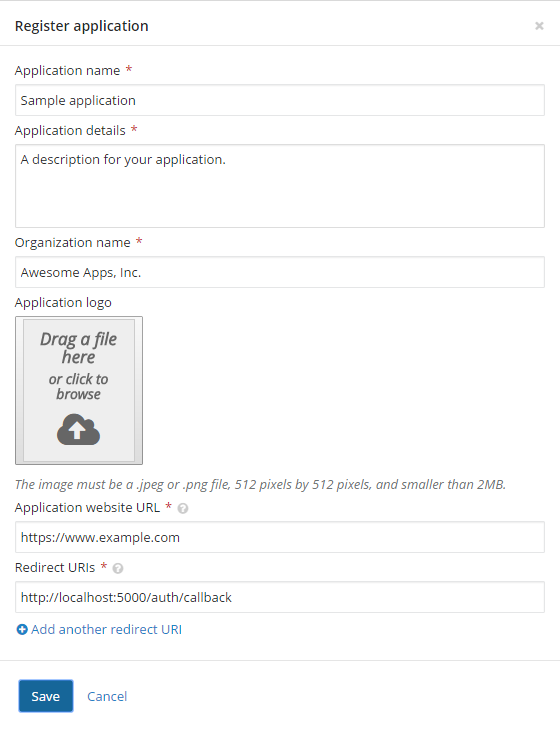
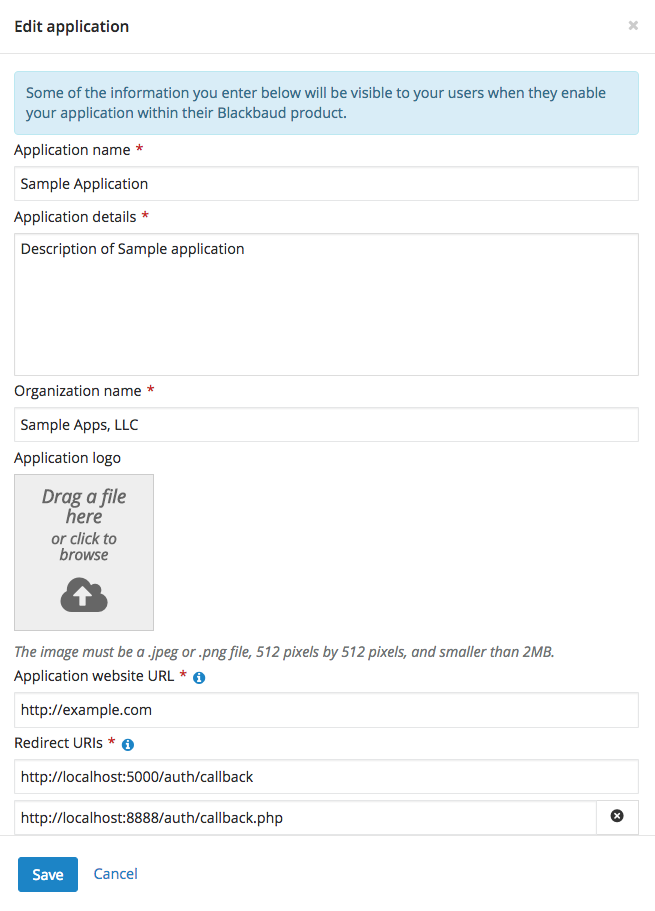
Started PHP codeflow tutorial, updated some screen shots of the application views to include the php callback endpoint

Changed region(s): [[0.0, 0.0, 1.0, 0.9932], [0.9107, 0.8728, 0.9714, 0.9029]]

diff --git a/content/docs/code/auth-code-flow/php/index.md b/content/docs/code/auth-code-flow/php/index.md
@@ -1,0 +1,351 @@
+---
+layout: layout-container
+name: PHP
+title: Authorization Code Flow - PHP
+icon: fa fa-fw fa-desktop
+description: Learn how to create a PHP server-side app that utilizes the OAuth 2.0 Authorization Code Flow and retrieves constituent data from our <%= stache.config.product_name_short %>.
+order: 1
+published: true
+showInNav: true
+showBreadcrumbs: true
+tutorial: true
+back_to_top: true
+redirectUrl: http://localhost:8888/auth/callback.php
+---
+
+{{ include stache.config.partial_header_edit }}
+
+# Authorization Code Flow - PHP
+
+<a class="btn btn-primary" href="{{ stache.config.github_repo_web_api_authorization_php }}" target="_blank"><i class="fa fa-github fa-lg"></i> GitHub</a>
+
+## Overview
+
+We use OAuth 2.0 to secure access to a user's {{ stache.config.product_name_short }} data. In this tutorial we obtain user authorization using the [Authorization Code Flow]({{ stache.config.guide_web_api_authorization_auth_code_flow }}). From the user's perspective, the user authenticates as a Blackbaud user with the normal credentials for Blackbaud NXT and then authorizes (or denies) your application. To accomplish this, your application obtains an authorization code from the {{ stache.config.authorization_service_name }}. The authorization code is then exchanged for an access token that signs requests to the {{ stache.config.product_name_short }} on behalf of the user. The exchange involves your registered application's **{{ stache.config.guide_apps_client_secret_name }}**. For security reasons, the exchange is done through direct server-to-server communication. For this reason, we use [PHP](https://secure.php.net/) on the server.
+
+In this tutorial, we will accomplish the following tasks:
+
+- Ensure that you signed up for a developer account and obtained your subscription to an API product.
+- Register an application with {{ stache.config.product_name_short }}.
+- Obtain authorization to access user data for a specific tenant.
+- Retrieve data from a {{ stache.config.api_type_name }} endpoint.
+
+For this tutorial, we strip down the user interface to highlight the Authorization Code Flow. Our [Barkbaud code sample]({{ stache.config.guide_code }}) provides a rich user interface using <a href="http://skyux.developer.blackbaud.com/" target="blank">SKY UX</a>.
+
+## Prerequisites
+0. A server such as your local machine that is capable of running PHP.  We recommend [MAMP](https://www.mamp.info/en/).
+0. Familiarity using a command line interface (CLI) such as Terminal or Windows Command Prompt.
+0. Sign up for a [GitHub](https://github.com) account, if you don't already have one. The source code for this tutorial is stored in GitHub repository.
+0. Install [Git](https://git-scm.com/) and have the ability to clone or fork a repo.
+0. A reliable Internet connection.
+
+## Step 1 &mdash; Get Your Keys
+
+If you have not already done so, complete the <a href="{{ stache.config.guide_getting_started }}">Getting Started guide</a>. The tutorial guides you through signing up for a Blackbaud developer account and requesting a subscription to an API product. After you are approved, your subscription contains a **Primary key** and **Secondary key**. You can use either key as the subscription key value for the `bb-api-subscription-key` request header in calls to the API.
+
+### {{ stache.config.sandbox_name }} Tenant
+
+After your subscription is approved, your developer account can access the {{ stache.config.sandbox_name }} tenant that represents a sample database. With this particular tenant, keep in mind that you share this sandbox with other developers. You can access the {{ stache.config.sandbox_name }} tenant and learn the various endpoints through the interactive {{ stache.config.dev_console_name }} within the <a href="{{ stache.config.portal_endpoints }}" target="_blank">API Reference</a>.
+
+## Step 2 &mdash; Register Your App
+
+{{ include 'includes/shared/nxt-web-api/registering-your-app/index.md' }}
+
+
+## Step 3 &mdash; Grab the Source Code
+
+The <a href="{{ stache.config.github_repo_web_api_authorization_php }}" target="_blank">sky-api-tutorial-auth-code-php</a> repo on GitHub provides a starter project to work through the Authorization Code Flow.
+
+- Use a command prompt to clone the `sky-api-tutorial-auth-code-php` repo which creates a working directory by the same name that contains the code for the tutorial:
+
+	<pre><code class="language-git">$ git clone https://github.com/blackbaud/sky-api-tutorial-auth-code-php.git</code></pre>
+
+## Step 4 &mdash; Prepare Your Environment
+
+<ul>
+	<li>Open the **sky-api-tutorial-auth-code-php** working directory and copy the configuration file **config.php.sample** as **config.php**. The **config.php** file contains the application's environment variables for the PHP environment.</li>
+	<li>
+	  <p>Update **config.php** with the following values:</p>
+	  <div class="table-responsive">
+	    <table class="table table-striped table-condensed">
+	      <tr>
+	        <td>**`AUTH_CLIENT_ID`**</td>
+	        <td>
+	          Your registered application's **Application ID** (from Step 2).<br>
+	          (See, [Managing your apps](https://apidocs.sky.blackbaud.com/docs/apps/).)
+	        </td>
+	      </tr>
+	      <tr>
+	        <td>**`AUTH_CLIENT_SECRET`**</td>
+	        <td>
+	          Your registered application's **Application Secret** (from Step 2).<br>
+	          (See, [Managing your apps](https://apidocs.sky.blackbaud.com/docs/apps/).)
+	        </td>
+	      </tr>
+	      <tr>
+	        <td>**`AUTH_REDIRECT_URI`**</td>
+	        <td>
+            One of your registered application's **Redirect URIs** (from Step 2).<br>
+            For this tutorial, enter `{{ redirectUrl }}`. <br>
+	        </td>
+	      </tr>
+	      <tr>
+	        <td>**`AUTH_SUBSCRIPTION_KEY`**</td>
+	        <td>
+            Your Blackbaud Developer **Subscription Key**.<br>
+            Use either the **Primary key** or **Secondary key**, visible on your [Blackbaud Developer Profile](https://developer.sky.blackbaud.com/developer).
+	        </td>
+	      </tr>
+	    </table>
+	  </div>
+	</li>
+	<li>Save the config file.</li>
+	<li>Review the **.gitignore** file. The purpose of the file is to specify the untracked files to ignore. Note that **config.php** file is ignored. This prevents the config file from being synced to GitHub and protects your registered application's keys and other sensitive data from being exposed.</li>
+</ul>
+
+## Step 5 &mdash; Install and Configure MAMP.
+
+After you have your subscription key, {{ stache.config.guide_apps_client_id_name }}, {{ stache.config.guide_apps_client_secret_name }}, and the <a href="{{ stache.config.github_repo_web_api_authorization_php }}" target="_blank">sky-api-auth-tutorial-php</a> source code, It's time to establish your development environment. Since we are using the [Authorization Code Flow]({{ stache.config.guide_web_api_authorization_auth_code_flow }}), we need to use a server-side software platform. For this tutorial, we will use PHP with [MAMP](https://www.mamp.info/en/) to serve the project locally.
+
+0. Download and install <a href="https://www.mamp.info/en/" target="blank">MAMP</a>.
+0. Launch MAMP and edit the following in **`Preferences`**.
+
+  <div class="table-responsive">
+    <table class="table table-striped table-hover">
+      <thead> 
+        <tr>
+          <th>Tab</th>
+          <th>Field</th>
+          <th>Description</th>
+        </tr>
+      </thead>
+      <tbody>
+        <tr>
+          <td>**`Web Server`**</td>
+          <td>**`Document Root`**</td>
+          <td>Change this path to point at your cloned **`sky-api-tutorial-auth-code-php`** directory.</td>
+        </tr>
+      </tbody>
+    </table>
+  </div>
+  <div>![MAMP Document Root](/assets/img/auth_tutorial_mamp.png "Document Root settings in MAMP")</div>
+0. Click `Ok`, and `Start Servers`.
+0. In a Web browser, navigate to <a href="http://localhost:8888" target="blank">localhost:8888</a>. The Web server displays our app.
+
+## Application Starting Point
+
+<ul>
+<li>Open the **index.html** file. MAMP serves this file as our applications root where we initialize our app and load assets to build our page.</li>
+
+<li>The `body` tag includes an attribute named `ng-app`. The front-end of our application uses <a href="https://angularjs.org/">AngularJS</a> to interact with our PHP server. 
+</li>
+    <pre><code class="language-markup">&lt;!-- INITIALIZE THE APP -->
+    &lt;body ng-app="AuthCodeFlowTutorial">
+        &lt;div class="container" ng-controller="ConstituentCtrl" ng-cloak>
+        ... </code></pre>
+
+<li>
+    <p>Open your browser to <a href="http://localhost:8888" target="http://localhost:8888">http://localhost:8888</a> to request the Home page. When the front page loads, the AngularJS on the Home page (**/Views/Shared/_Layout.cshtml**) makes a request to the `/auth/authenticated.php` endpoint:</p>
+<pre><code class="language-javascript">(function (angular) {
+  'use strict';
+
+  angular.module('AuthCodeFlowTutorial', [])
+    .controller('ConstituentCtrl', function ($scope, $http, $window) {
+
+      // Check user access token.
+      $http.get('/auth/authenticated.php').then(function (res) {
+        $scope.isAuthenticated = res.data.authenticated;
+        if ($scope.isAuthenticated === false) {
+          $scope.isReady = true;
+          return;
+        }
+        ...</code></pre>
+    <p>The call to the endpoint routes to the corresponding php page (**/auth/authenticated.php**) and returns a Boolean representing the current user's authentication status.  First it requires and loads the **/includes/blackbaud/blackbuad.php** file.</p>
+<pre><code class="language-php">&lt;?php
+    require_once '../includes/blackbaud/blackbaud.php';
+
+    echo json_encode(array(
+    'authenticated' => blackbaud\Session::isAuthenticated()
+    ));
+        ...</code></pre>
+</li>
+<li>
+    <p>Open the **/includes/blackbaud/blackbaud.php** file. The PHP code pulls in the rest of our required controllers, config environment variables, and http library for making api requests.   We can see `**require_once 'session.php';**` pulls in the **includes/blackbaud/session.php** file.</p>
+<pre>
+    <code class="language-php">&lt;?php
+    // Error reporting, for development only.
+    ini_set('display_errors', 1);
+    ini_set('display_startup_errors', 1);
+    error_reporting(E_ALL);
+
+    require_once 'session.php';
+    require_once join(DIRECTORY_SEPARATOR, array($_SERVER['DOCUMENT_ROOT'], 'config.php'));
+    require_once join(DIRECTORY_SEPARATOR, array('api', 'constituents.php'));
+    require_once 'auth.php';
+    require_once 'http.php';
+        ...</code></pre>
+</li>
+<li>
+    <p>Open the **/includes/blackbaud/session.php** file.  It begins by defining our **namespace blackbaud;**, allowing the methods and variables defined beneath it to be accessed by any other classes also under that namespace.  Our original call to `/auth/authenticated/`  made use of the `isAuthenticated()` method in this Session object.  This method checks for the existance of a PHP `$_SESSION` object and looks for an `access_token`. If the application has not yet been authorized by the end user, then `IsAuthenticated()` will return `false`.</p>
+    
+<pre><code class="language-php">&lt;?php
+    public static function isAuthenticated() {
+    return isset($_SESSION[self::$tokenName]) && isset($_SESSION[self::$tokenName]['access_token']);
+    }
+        ...</code></pre>
+</li>
+</ul>
+
+## Displaying the Log in button
+<ul>
+<li><p>If the user is not authenticated, a **Log in** button is displayed.</p>
+<p class="alert alert-info"><strong><em>Note:</em></strong> The browser may display a warning that the connection is not private. For this tutorial, you can ignore this message. To proceed, click <strong>Show advanced</strong> and then click <strong>Proceed to localhost (unsafe)</strong>.</p>
+![Login](/assets/img/auth_tutorial_login_php.png "Log in")</li>
+<li><p>Open the **Views/Shared/_Layout.cshtml** file. Notice that the `body` tag includes an attribute named `ng-app`. The front-end of our application uses AngularJS to interact with our Web server routes. The `div.container` element includes an attribute named `ng-controller` which references an AngularJS controller to handle the model data.</p>
+<pre><code class="language-markup">&lt;body ng-app="AuthCodeFlowTutorial">
+  &lt;div class="container" ng-controller="ConstituentCtrl" ng-cloak>
+    ...</code></pre></li>
+<li><p>When the Home page first loads the app will not have received authorization from the user to access their SKY API data. As a result the `isAuthenticated` scope variable will be `false` and the Home page's Angular HTML template displays the **Log in** button:</p>
+<pre><code class="language-markup">&lt;div ng-if="!isAuthenticated">
+	&lt;a href="/auth/login" class="btn btn-primary">Log in&lt;/a>
+&lt;/div>
+...</code></pre></li>
+</ul>
+
+## Obtain an Access Token
+<ul>
+<li>Open **/includes/blackbaud/auth.php**.</li>
+<li><p>When the user clicks the Log in button, a call is made to `auth/login.php` which redirects the request to `/includes/blackbaud/auth.php` file and runs the `redirect()` method which redirects the browser to SKY API’s authorization endpoint to start the authentication and authorization process. The user must authenticate with their Blackbaud credentials (if they are not already signed in) and authorize your application to access their SKY API data.</p>
+<pre><code class="language-php">&lt;?php
+class Auth {
+  public static function redirect() {
+    $auth_uri = self::getAuthorizationUri();
+    header("Location: $auth_uri", true, 301);
+    exit();
+  }
+    ...
+  private static function getAuthorizationUri() {
+    return AUTH_BASE_URI . 'authorization?' . 
+      http_build_query(array(
+        'client_id'=> AUTH_CLIENT_ID,
+        'response_type' => 'code',
+        'redirect_uri' => AUTH_REDIRECT_URI
+      ));
+  }
+    ...</code></pre></li>
+<li><p>Once authorized, SKY API redirects the user back to the `/auth/callback.php` URI with an authorization code. Once an authorization code has been obtained, it is exchanged the code for an access token.  The app is then redirected back to the Home page.</p>
+<pre><code class="language-php">&lt;?php
+require_once '../includes/blackbaud/blackbaud.php';
+
+blackbaud\Auth::exchangeCodeForAccessToken($_GET['code']);
+
+header('Location: /');
+exit();
+
+    ...
+// build out the request body with the code from the redirect URI.
+public static function exchangeCodeForAccessToken($code = 0) {
+$body = array(
+    'code' => $code,
+    'grant_type' => 'authorization_code',
+    'redirect_uri' => AUTH_REDIRECT_URI
+);
+return self::fetchTokens($body);
+}
+    ...
+// build out the appropriate token headers, and make the reqeust to the SKY API endpoint.   Grab the returned JSON response and
+// store the tokens in the Session.
+private static function fetchTokens($body = array()) {
+$headers = array(
+    'Content-type: application/x-www-form-urlencoded',
+    'Authorization: Basic ' . base64_encode(AUTH_CLIENT_ID . ':' . AUTH_CLIENT_SECRET)
+);
+
+$url = AUTH_BASE_URI . 'token';
+
+$response = Http::post($url, $body, $headers);
+$token = json_decode($response, true);
+Session::setToken($token);
+return $response;
+}
+</code></pre></li>
+</ul>
+
+## Retrieve Constituent Data
+<ul>
+<li>Open the Home page (**Views/Shared/_Layout.cshtml**).</li>
+<li><p>AngularJS again makes the request to `auth/authenticated`, which now returns `true`. Since the user is authorized, AngularJS then makes a request the application’s constituent API endpoint `/api/constituents/280` to retrieve a constituent record:</p>
+<pre><code class="language-javascript">angular.module('AuthCodeFlowTutorial', [])
+	.controller('ConstituentCtrl', function ($scope, $http) {
+
+		// Check user access token.
+		$http.get('/auth/authenticated').then(function (res) {
+			$scope.isAuthenticated = res.data.authenticated;
+			if ($scope.isAuthenticated === false) {
+				$scope.isReady = true;
+				return;
+			}
+
+			// Access token is valid. Fetch constituent record.
+			$http.get('/api/constituents/280').then(function (res) {
+				$scope.constituent = res.data;
+				$scope.isReady = true;
+			});
+		});
+	...</code></pre>
+</li>
+<li><p>The data is returned as JSON to the Home page where the model's data is projected through the view of the HTML template:</p>
+<pre><code class="language-markup" ng-non-bindable>&lt;div ng-if="isAuthenticated">
+  &lt;h3>Constituent: {{ constituent.name }}&lt;/h3>
+  &lt;p>
+    See &lt;a href="{{ stache.config.constituent_entity_reference }}">Constituent&lt;/a>
+    within the SKY API entity reference for a full listing of properties.
+  &lt;/p>
+  &lt;p ng-if="::constituent.error" ng-bind="::constituent.error" class="alert alert-danger">&lt;/p>
+  &lt;div ng-if="::constituent.id" class="table-responsive">
+    &lt;table class="table table-striped table-hover">
+      &lt;thead>
+        &lt;tr>
+          &lt;th>Name&lt;/th>
+          &lt;th>Value&lt;/th>
+        &lt;/tr>
+      &lt;/thead>
+      &lt;tbody>
+        &lt;tr>
+          &lt;td>id&lt;/td>
+          &lt;td>\{{ constituent.id }}&lt;/td>
+        &lt;/tr>
+        &lt;tr>
+          &lt;td>type&lt;/td>
+          &lt;td>\{{ constituent.type }}&lt;/td>
+        &lt;/tr>
+        &lt;tr>
+          &lt;td>lookup_id&lt;/td>
+          &lt;td>\{{ constituent.lookup_id }}&lt;/td>
+        &lt;/tr>
+        &lt;tr>
+          &lt;td>first&lt;/td>
+          &lt;td>\{{ constituent.first }}&lt;/td>
+        &lt;/tr>
+        &lt;tr>
+          &lt;td>last&lt;/td>
+          &lt;td>\{{ constituent.last }}&lt;/td>
+        &lt;/tr>
+      &lt;/tbody>
+    &lt;/table>
+  &lt;/div>
+...</code></pre>
+![GET Constituent](/assets/img/auth_tutorial_GETConstituent_c_sharp.png "GET Constituent")
+</li>
+<li>Once the constituent information is retrieved and added to the front page, **Log Out** and **Refresh Access Token** buttons are displayed.</li>
+<li>Open **/Controllers/AuthenticationController.cs**</li>
+<li>If the user clicks **Log Out**, they are redirected to `/auth/logout` which destroys the access/refresh token stored in the browser’s session.</li>
+<li>If the user clicks **Refresh Access Token**, AngularJS makes a request to `/auth/refresh-token`, which asks SKY API to return a refreshed access token, which is then stored in the browser’s session.</li>
+</ul>
+
+That's it!
+
+- Be sure to take a look at our other [code samples]({{ stache.config.guide_code }}).
+- Check out the [README]({{ stache.config.github_repo_web_api_authorization_c_sharp }}/blob/master/README.md) where you can view a live demo of the application hosted on Microsoft Azure.
+- The README also contains instructions for deploying to Azure App Services rather than your local development environment.
+- You can [create an issue]({{ stache.config.github_repo_web_api_authorization_c_sharp }}issues) to report a bug or request a feature for this code sample.  For all other feature requests, see [ideas]({{ stache.config.support_ideas }}).

diff --git a/includes/shared/nxt-web-api/registering-your-app/index.md b/includes/shared/nxt-web-api/registering-your-app/index.md
@@ -38,7 +38,7 @@
         <tr>
           <td>Redirect URIs</td>
           <td>(Required) Specify one or more URIs that should be used when redirecting the user's browser back to your application after providing consent during the <a href="{{ stache.config.guide_web_api_authorization }}" target="_blank">authorization process</a>.  The URIs must be absolute and use https (note that we do support `http://localhost:port` or `http://127.0.0.1:port` for local development). To register multiple URIs, click **Add another redirect URI**.
-    			{{# if tutorial }}<br><br>For this tutorial, use `http://localhost:5000/auth/callback`.{{/ if }}</td>
+    			{{# if tutorial }}<br><br>For this tutorial, use `{{ redirectUrl }}`.{{/ if }}</td>
         </tr>
       </tbody>
     </table>

diff --git a/content/docs/code/auth-code-flow/c-sharp/index.md b/content/docs/code/auth-code-flow/c-sharp/index.md
@@ -10,6 +10,7 @@ showInNav: true
 showBreadcrumbs: true
 tutorial: true
 back_to_top: true
+redirectUrl: http://localhost:5000/auth/callback
 ---
 
 {{ include stache.config.partial_header_edit }}

diff --git a/content/docs/code/auth-code-flow/nodejs/index.md b/content/docs/code/auth-code-flow/nodejs/index.md
@@ -10,6 +10,7 @@ showInNav: true
 tutorial: true
 showBreadcrumbs: true
 back_to_top: true
+redirectUrl: http://localhost:5000/auth/callback
 ---
 
 {{ include stache.config.partial_header_edit }}
